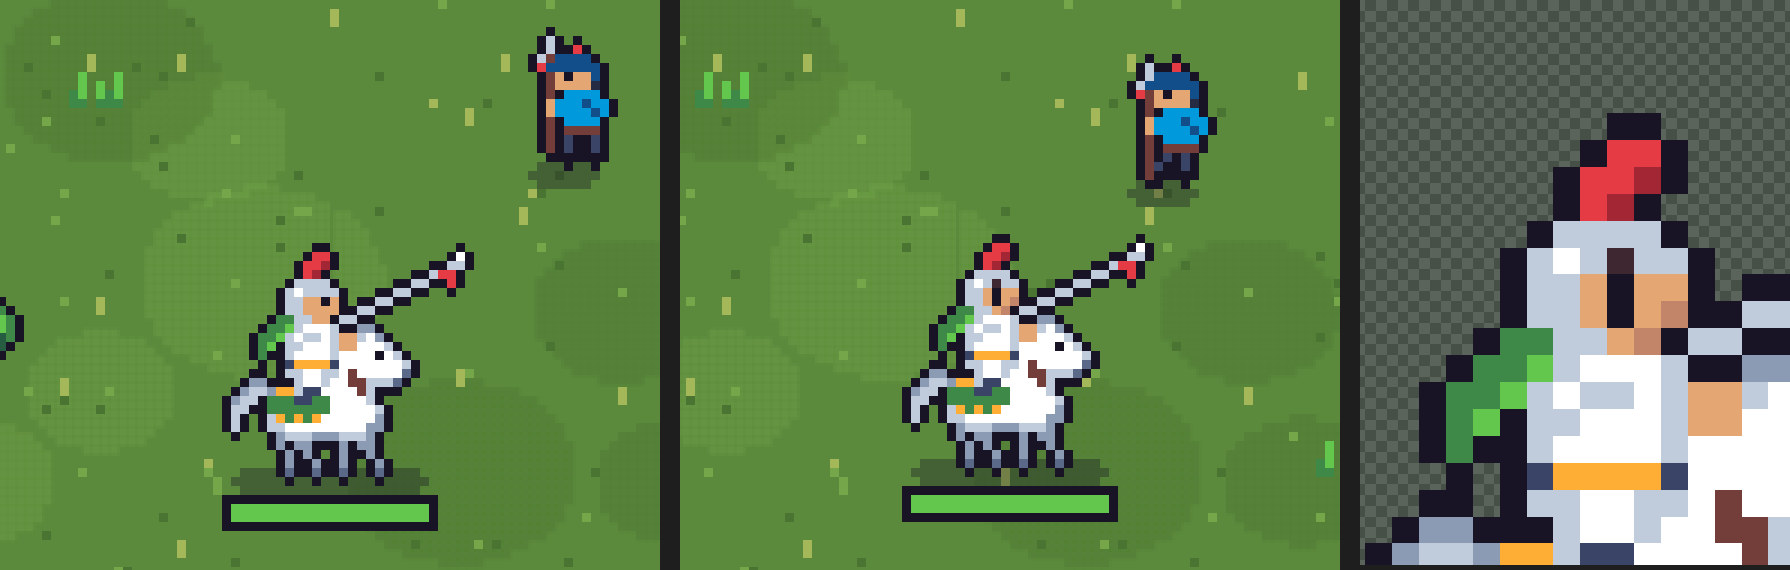
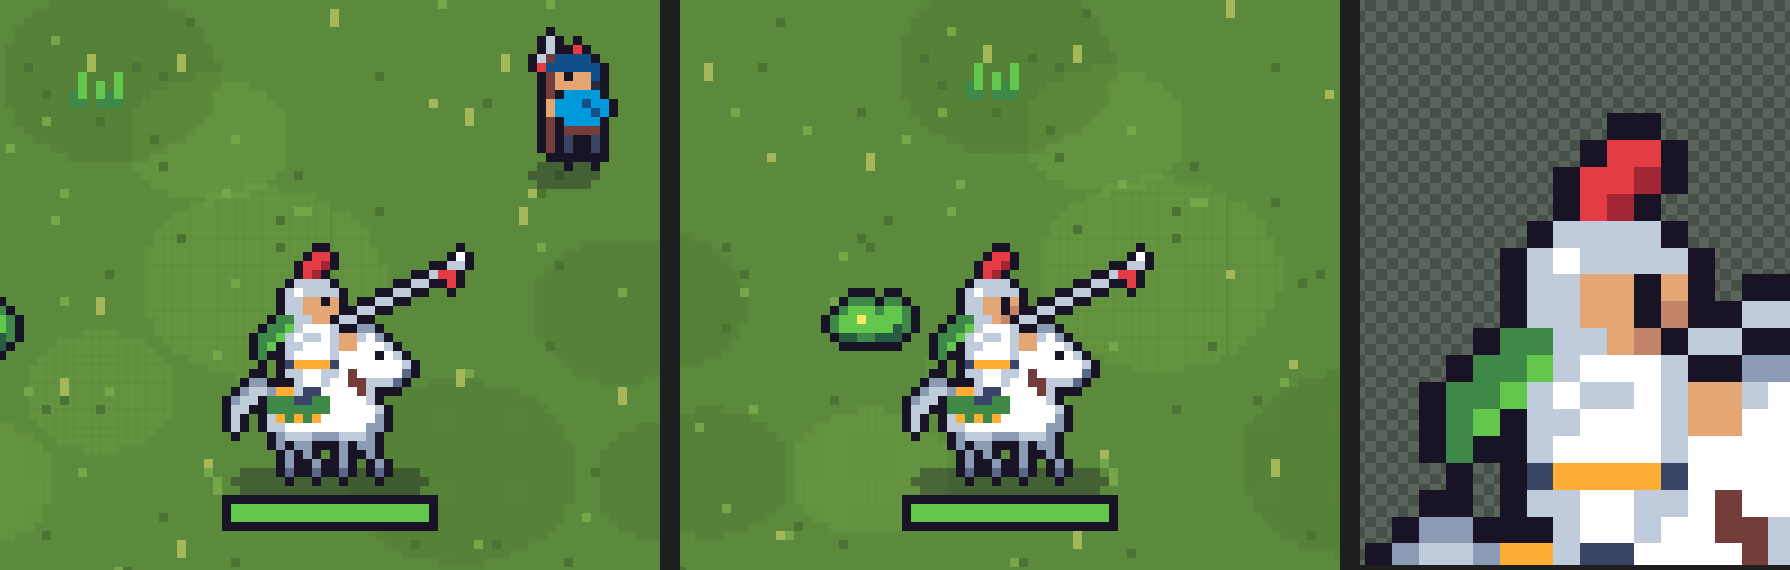
Eye: two pixels tall, one column to the right, no brow pixel
Claude-Session: https://claude.ai/code/session_018oa94DhaGbkSrtXZMTeaux

diff --git a/src/gfx/art/hero.ts b/src/gfx/art/hero.ts
@@ -8,9 +8,9 @@ const RIDER = [
   '.....RRr....',
   '.....Rr.....',
   '....SSSS....',
-  '...SwSzSS...',
-  '...SSqkqq...',
-  '...SSqkqE...',
+  '...SwSSSS...',
+  '...SSqqkq...',
+  '...SSqqkE...',
   '..GGSSqE....',
   '.GGgSwwwS...',
   'GGgSwSSwSqq.',
